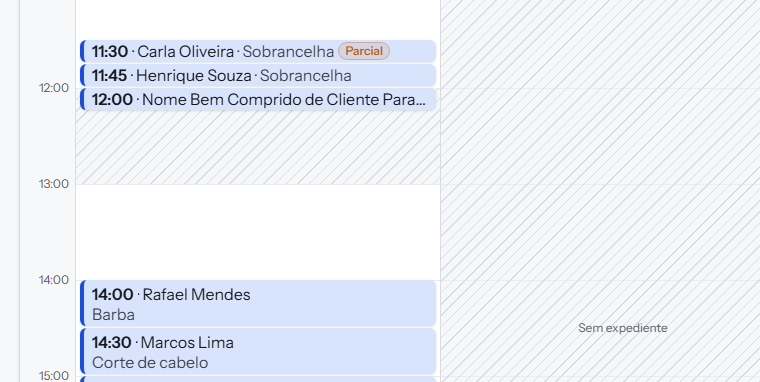
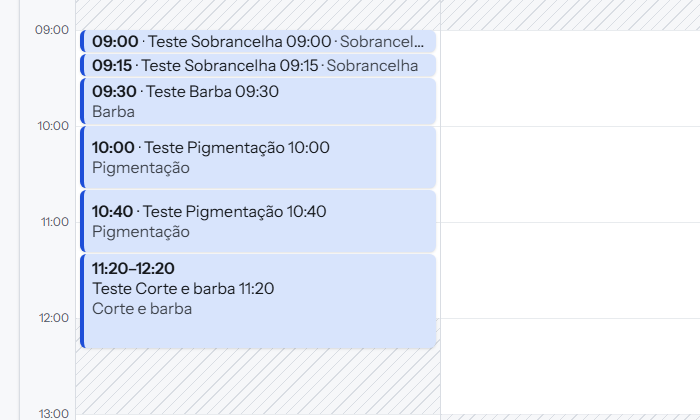
fix(agenda): atendimento de 40 min em duas linhas (a terceira ficava com as letras cortadas na borda)

diff --git a/src/app/admin/(authenticated)/agenda/schedule-grid.tsx b/src/app/admin/(authenticated)/agenda/schedule-grid.tsx
@@ -42,9 +42,10 @@ export const PIXELS_PER_HOUR = 96;
 const MIN_APPOINTMENT_HEIGHT_PX = 22;
 /** Respiro entre um bloco e o que começa quando ele termina. */
 const BLOCK_GAP_PX = 2;
-/** Abaixo disto cabe uma linha só (hora · cliente · serviço); abaixo do seguinte, duas. */
-const ONE_LINE_BLOCK_HEIGHT_PX = 40;
-const TWO_LINE_BLOCK_HEIGHT_PX = 56;
+// Cada linha de texto do bloco tem 20px. Abaixo de duas linhas inteiras cabe uma só
+// (hora · cliente · serviço); abaixo de três (com o respiro), duas.
+const ONE_LINE_BLOCK_HEIGHT_PX = 44;
+const TWO_LINE_BLOCK_HEIGHT_PX = 68;
 // Respiro para os rótulos de hora centralizados na linha não serem cortados.
 const GRID_BODY_CLASS = "relative my-3";
 
@@ -402,7 +403,7 @@ function AppointmentBlock({
         appointment.status !== "CANCELLED" && "z-[1]",
         "flex overflow-hidden rounded-md px-2 text-left text-caption leading-tight shadow-sm transition-shadow hover:z-20 hover:shadow-md focus-visible:z-20 focus-visible:ring-3 focus-visible:ring-ring/50 focus-visible:outline-none",
         STATUS_BLOCK_CLASSES[appointment.status],
-        lines === 1 ? "flex-row items-center gap-1 py-0.5" : "flex-col py-1",
+        lines === 1 ? "flex-row items-center gap-1" : lines === 2 ? "flex-col justify-center py-0.5" : "flex-col py-1",
         canDrag ? "cursor-grab active:cursor-grabbing" : "cursor-pointer",
         isDragging && "z-30 opacity-80 shadow-lg",
       )}

diff --git a/docs/design-system.md b/docs/design-system.md
@@ -48,7 +48,7 @@ Cor de marca do negócio: `AccentColorScope` injeta as variáveis em `:root`, po
 
 `src/app/admin/(authenticated)/agenda/`:
 - `ScheduleGrid` recebe colunas genéricas (`GridColumn`): visão **Dia** = uma coluna por profissional; visão **Semana** = sete colunas de um profissional.
-- Blocos de agendamento usam `STATUS_BLOCK_CLASSES` (fundo suave opaco + faixa `border-l-4` na cor `--status-*`). O bloco tem a altura real da duração (15 min = 24 px, com 2 px de respiro para o vizinho; um mínimo maior fazia o atendimento curto cobrir o seguinte) e o texto se ajusta: abaixo de 40 px, uma linha ("hora · cliente · serviço"); abaixo de 56 px, duas; senão, três.
+- Blocos de agendamento usam `STATUS_BLOCK_CLASSES` (fundo suave opaco + faixa `border-l-4` na cor `--status-*`). O bloco tem a altura real da duração (15 min = 24 px, com 2 px de respiro para o vizinho; um mínimo maior fazia o atendimento curto cobrir o seguinte) e o texto se ajusta: abaixo de 44 px (até 25 min), uma linha ("hora · cliente · serviço"); abaixo de 68 px (até 40 min), duas; senão, três. A linha de texto do bloco tem 20 px.
 - Bloqueios (`TimeBlock`) são hachurados (listras grossas). Fora do expediente e intervalo: `muted/50` com listras finas na cor `--border` (`OFF_HOURS_STYLE`), legíveis também no modo escuro.
 - Cancelado no mesmo horário de um agendamento ativo vira faixa estreita à direita, atrás (`z-0`); o ativo fica por cima e recebe o clique.
 - **Toque (Bloco E7)**: em telas de toque (`pointer-coarse:`) botões, campos, seletores, abas e itens de menu crescem para 36–44 px; no computador nada muda. A gaveta ocupa a largura toda no celular. A navegação inferior usa `viewportFit: "cover"` + `max(env(safe-area-inset-bottom), 0.5rem)` (respiro mesmo sem barra de gestos), itens com `min-h-14`. Cartões dos profissionais mostram "Seg Ter Qua…" (`WEEKDAY_SHORT`). As abas da agenda do celular usam `shortNames` (`lib/text.ts`): primeiro nome, "Dra. Ana" com o tratamento, e o nome inteiro quando dois ficariam iguais.
